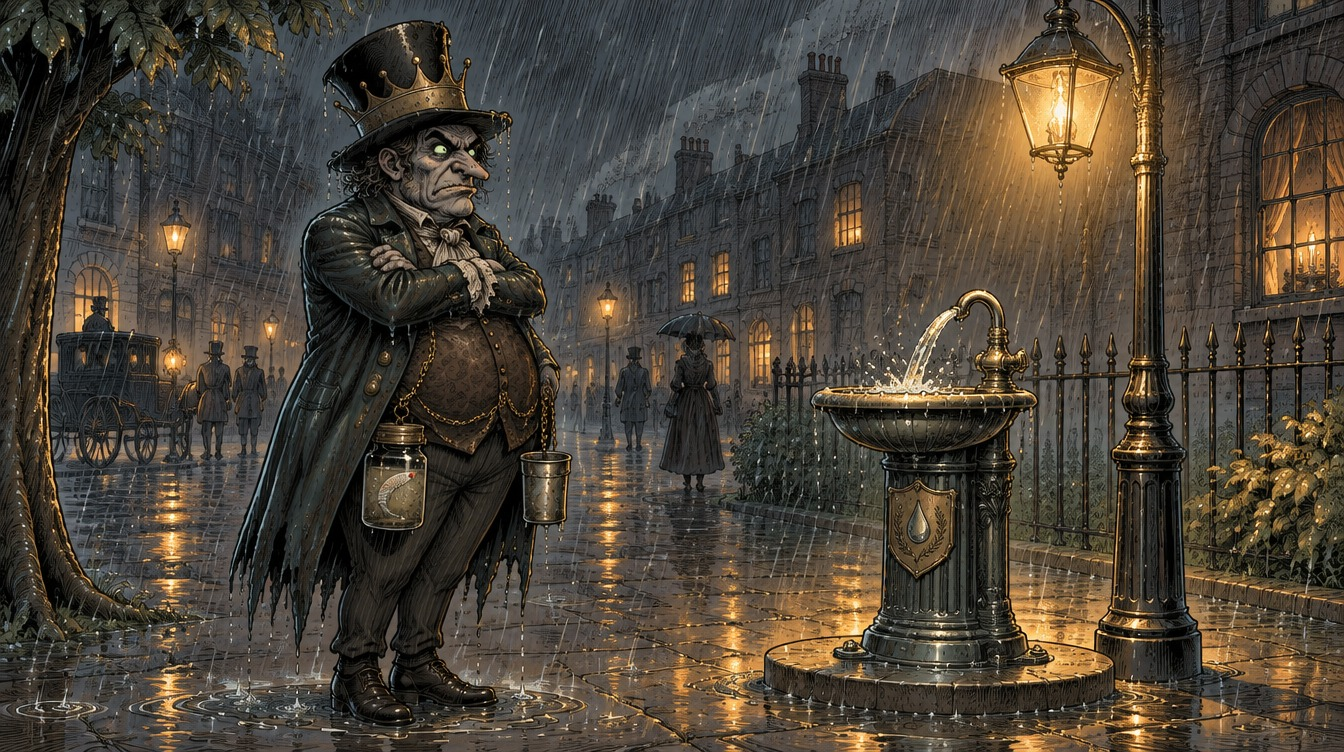
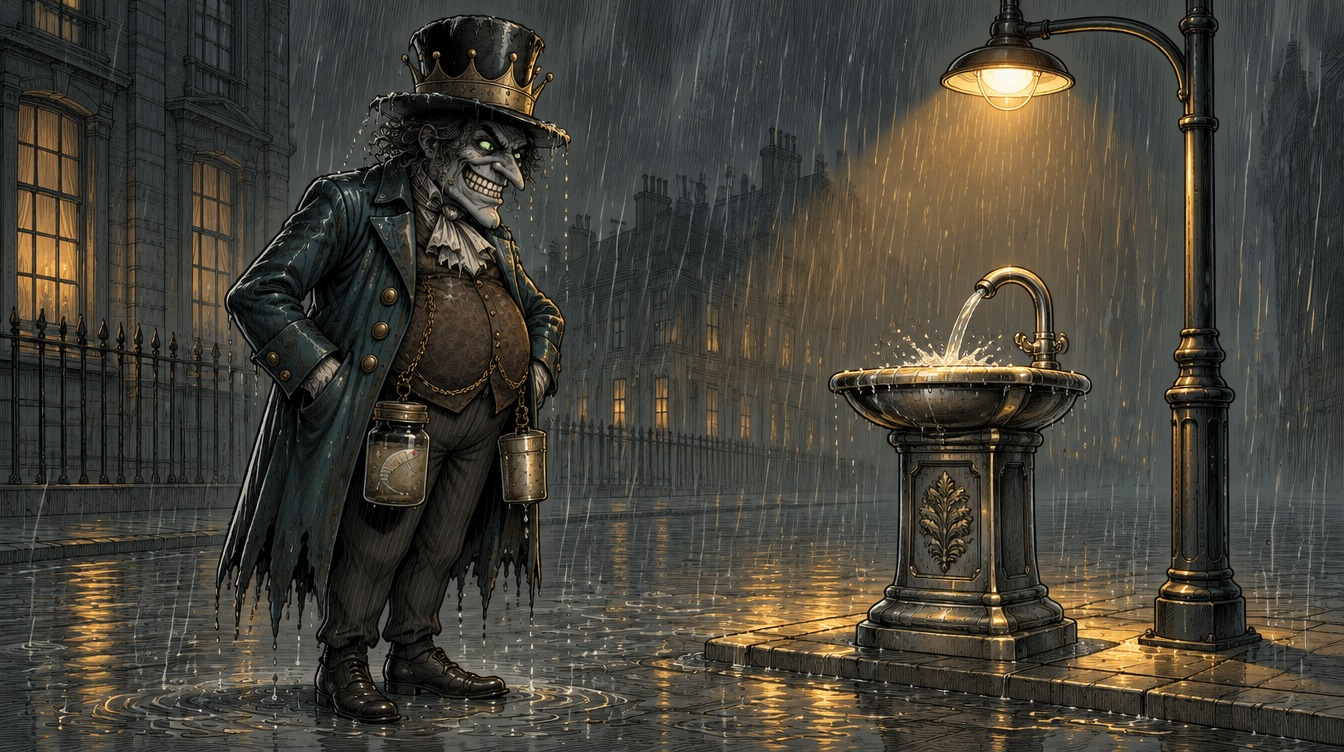
Cholera: fix 3 new frames with extra hands
Claude-Session: https://claude.ai/code/session_01TNc2K4iQhF6FRvCx2VQdik

diff --git a/tools/plague/ep02_spec.py b/tools/plague/ep02_spec.py
@@ -88,7 +88,7 @@ N('S03', "The body dries out from the inside. Painful cramps grip the legs. The 
   sh('s03a', STILL, "A symbolic diagram on aged paper: a simple outline of a human figure drawn like a glass water jug, nearly empty, with a few drops leaking out at the bottom. No words."),
   sh('s03b', C(.5, .5, 1.05), "Still life on a white plate: a plump fresh green grape next to a shrivelled raisin. Clean, simple, symbolic."))
 K('S04', "It's nothing personal. I simply need the water more than you do.",
-  kg('s04a', C(.5, .45, 1.1), "King Cholera stands by a well at night, filling his tin cup from a bucket, smiling politely at the viewer; his other hand rests on the well's edge."))
+  kg('s04a', C(.5, .45, 1.1), "King Cholera stands by a stone well at night, smiling politely at the viewer. His RIGHT hand holds his tin cup up as if to drink; his LEFT hand rests on his round belly. Exactly two hands, no hand on the well."))
 N('L06', "People could be healthy at breakfast and dead by dinner. Their skin turned grey-blue and wrinkled from losing so much water. The Victorians had a name for it: the blue death.",
   ch('c12a', W(), "A Victorian breakfast table in the morning: one stickman in a waistcoat eats toast happily, a cup of tea and a jug of water beside him."),
   sh('c12b', W(), "The same Victorian breakfast table at night: the chair is empty and pushed back, the candle burnt low, the toast untouched. No people. Somber."),
@@ -245,11 +245,11 @@ N('L49', "That's it. Today there are also cholera vaccines, and antibiotics for 
 
 # ---- consequences
 N('A01', "And for those who pulled through? Usually a full recovery within days, as long as they got enough fluids. But the immunity fades after a few years, so you could catch him again.",
-  ch('a01a', W(), "A sunny Victorian kitchen: a single recovered stickman sits at the table drinking a big glass of water, smiling weakly, a blanket over his shoulders.", text=label('WHAT HE LEAVES BEHIND', 960, 150, 72)))
+  ch('a01a', W(), "A sunny Victorian kitchen: a single recovered stickman sits at the table holding a big glass of water with BOTH hands, smiling weakly, a blanket over his shoulders. Both arms clearly come from his shoulders.", text=label('WHAT HE LEAVES BEHIND', 960, 150, 72)))
 N('A02', "For cities, the consequences were enormous. Fear of cholera gave us modern sewers, filtered drinking water, public health boards, and the first international health conferences. Every time you drink clean tap water, you're living in a world he forced us to build.",
   sh('a02a', C(.5, .5, 1.05), "A modern clean kitchen tap pouring a clear stream of water into a glass, bright daylight. Simple, hopeful, no people."))
 K('A03', "You're welcome. Again.",
-  kg('a03a', C(.5, .45, 1.1), "King Cholera stands in the rain under a modern streetlight, arms folded, sulking, glaring at a shiny drinking-water fountain."))
+  kg('a03a', C(.5, .45, 1.1), "King Cholera stands alone in the rain under a modern streetlight on an empty street, both hands in his coat pockets, sulking, glaring at a shiny public drinking-water fountain; his tin cup hangs on its chain from his waistcoat, nobody holding it. No other people."))
 
 # ---- today
 N('L50', "So, is he gone? Not even close. The seventh pandemic began in Indonesia in 1961, and it has never officially ended.",
